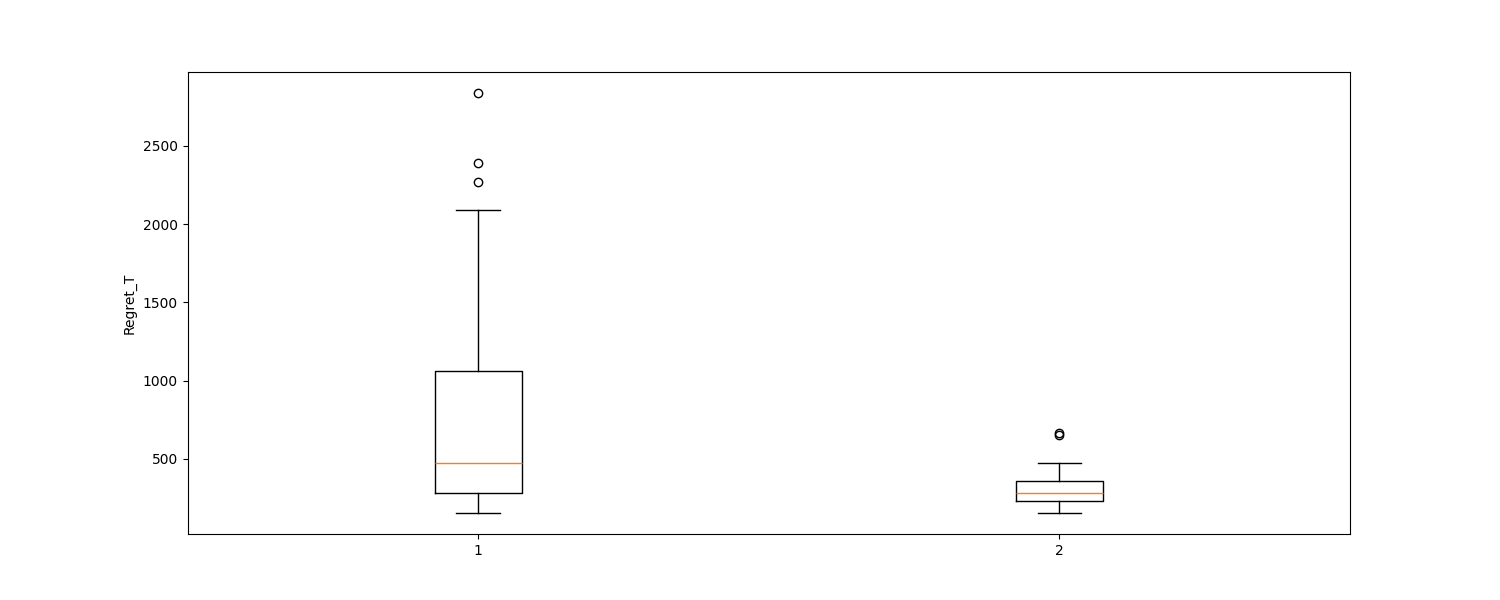
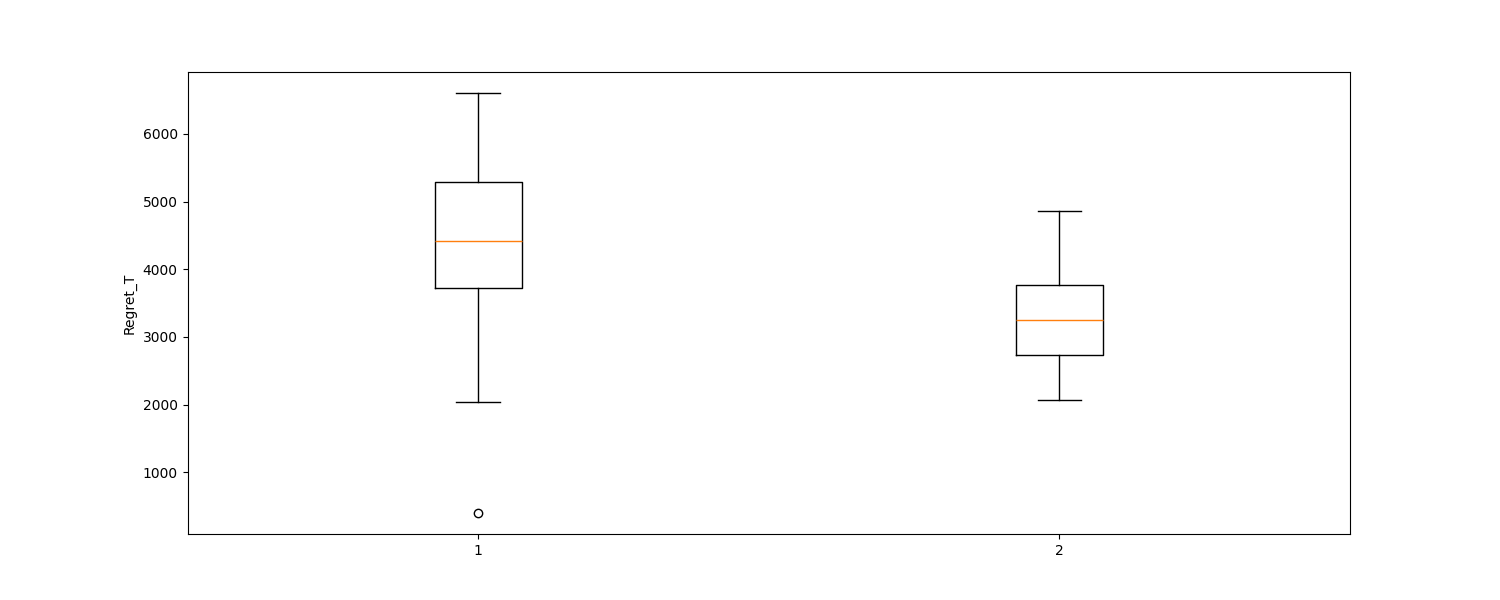
Commit these changes; Not sure what they are lmao

diff --git a/src/data_generating_mechanism/glm_posterior_sampling.py b/src/data_generating_mechanism/glm_posterior_sampling.py
@@ -23,10 +23,11 @@ class GLM_Posterior_Stochastic(Data_Generating_Mechanism):
                          num_runs = 50, 
                          init_exploration = init_exploration)
         
-    def initialize_parameters(self, hyperparameters):
-        self.alpha = hyperparameters['alpha']
-        self.r = np.zeros(shape = self.get_T())
-        self.m = np.zeros(shape = (self.get_T(), self.d))
+    def initialize_parameters(self, alpha):
+        #self.alpha = hyperparameters['alpha']
+        self.alpha = alpha
+        self.r = np.zeros(shape = self.get_T()+5)
+        self.m = np.zeros(shape = (self.get_T()+5, self.d))
         self.M = np.zeros(shape = (self.d, self.d))
         self.curr_time_stamp = 0
         self.theta_star = np.random.normal(loc = self.posterior_mean[0], scale = np.sqrt(self.posterior_covariance[0][0]), size = 10)
@@ -43,8 +44,6 @@ class GLM_Posterior_Stochastic(Data_Generating_Mechanism):
             r_1 = self.reward_gen(self.mu_arms[a_1])
             while (int(r_1) != 1):
                 a_1 = np.random.randint(0, 100, size = 1)
-                print(self.mu_arms[a_1])
-                print("**")
                 r_1 = self.reward_gen(self.mu_arms[a_1])
             
             a_0 = np.random.randint(0, 100, size = 1)
@@ -74,10 +73,13 @@ class GLM_Posterior_Stochastic(Data_Generating_Mechanism):
         self.r[self.curr_time_stamp] = reward
         self.m[self.curr_time_stamp, :] = x
         self.M = self.M + np.outer(x, x)
-        mle = self.fit_glm(self.m[:self.curr_time_stamp+1, :], 
-                           self.r[:self.curr_time_stamp+1]).coef_
-        if (t >= 60):
-            self.theta_hat = np.random.multivariate_normal(mean = mle,
+        if self.isLogistic == True:
+            mle = mle[0]
+        if (t >= 20):
+            mle = self.fit_glm(self.m[:self.curr_time_stamp+1, :], 
+                    self.r[:self.curr_time_stamp+1]).coef_
+            if self.isLogistic == True:
+                self.theta_hat = np.random.multivariate_normal(mean = mle,
                                                         cov = (self.alpha**2) * np.linalg.inv(self.jac(mle)))
         self.curr_time_stamp += 1
         return 

diff --git a/scripts/linear_gaussian_ucb_simulations.py b/scripts/linear_gaussian_ucb_simulations.py
@@ -118,21 +118,19 @@ glm_poisson_hyperparameters = [{'conf-width': 0.001},
 '''
 
 glm_logistic_hyperparameters = [
-                   {'alpha': 0.01},
-                   {'alpha': 0.025},
-                   {'alpha': 0.05},
-                   {'alpha': 0.1},
-                   {'alpha': 0.25},
-                   {'alpha': 0.5}
+                   {'alpha': 2.5},  
+                   {'alpha': 5},
+                   {'alpha': 8},
+                   {'alpha': 10},
+                   {'alpha': 15}
                    ]
 
 glm_poisson_hyperparameters = [
-                   {'alpha': 0.01},
-                   {'alpha': 0.025},
-                   {'alpha': 0.05},
-                   {'alpha': 0.1},
-                   {'alpha': 0.25},
-                   {'alpha': 0.5}
+                   {'alpha': 2.5},  
+                   {'alpha': 5},
+                   {'alpha': 8},
+                   {'alpha': 10},
+                   {'alpha': 15}
                    ]
 
 glm_posterior_stochastic_data_job_1 = GLM_Posterior_Stochastic(link=poisson_link_func, 
@@ -148,8 +146,8 @@ glm_posterior_stochastic_data_job_2 = GLM_Posterior_Stochastic(link=logistic_lin
 
 np.seterr(all="ignore")
 
-partial_info_ground = Partial_Info_Play_Ground(bandit_algorithms=[GLM_Gaussian_UCB(glm_posterior_stochastic_data_job_2, label = "Poisson UCB"), 
-                                                                  GLM_Gaussian_UCB(glm_posterior_stochastic_data_job_1, label = "Logistic UCB")],
+partial_info_ground = Partial_Info_Play_Ground(bandit_algorithms=[GLM_Gaussian_UCB(glm_posterior_stochastic_data_job_1, label = "Poisson UCB"),
+                                                                 GLM_Gaussian_UCB(glm_posterior_stochastic_data_job_2, label = "Logistic UCB")],
                                               hyperparameters=[glm_poisson_hyperparameters,
                                                                glm_logistic_hyperparameters],
                                               plot_label = "Linear-Gaussian-UCB",

diff --git a/src/game/partial_information_game.py b/src/game/partial_information_game.py
@@ -74,20 +74,19 @@ class Partial_Information_Game(Game):
     
     def find_minimum(self, starting_values, bounds):
         results = dict()
+        results = minimize_scalar(self.simulate_all_runs,  
+                           bounds=(0, 1),
+                           method='bounded')
+
         '''
-        results = minimize(self.simulate_all_runs, 
-                           method='Nelder-Mead', 
-                           x0 = starting_values, 
-                           bounds=bounds)
         results = minimize_scalar(self.simulate_all_runs, bounds = (0, 1))
         minimium_window = {'lambda': 0.25, 'delta': 0.025}
         pbounds = {'lambda': (0.0001, 5), 'delta': (0.0000001, 0.1)}
         minimium_window = {'delta': 0.025}
         pbounds = {'delta': (0.0000001, 0.1)}
         xi=0.0025
-        '''
         minimium_window = {'alpha': 0.025}
-        pbounds = {'alpha': (0.000001, 5)}
+        pbounds = {'alpha': (0.000001, 1)}
         bounds_transformer = SequentialDomainReductionTransformer(minimum_window=minimium_window)
         xi=0.025
         optimizer = BayesianOptimization(
@@ -100,6 +99,7 @@ class Partial_Information_Game(Game):
         )
         optimizer.maximize(init_points = 3, n_iter = 25)
         print(optimizer.max)
+        '''
 
     def grid_search(self, grid_values):
         print(np.shape(grid_values))

diff --git a/src/bandit_algorithms/glm_gaussian_ucb.py b/src/bandit_algorithms/glm_gaussian_ucb.py
@@ -27,7 +27,7 @@ class GLM_Gaussian_UCB(Bandit_Algorithm_PI):
         self.__current_sampling_distribution = distr
     
     def get_arm_to_pull(self, t):
-        if t < 60:
+        if t < 20:
             return int(np.random.uniform(0, 100, size = 1))
         else:
             arm_estimates_current_round = np.zeros(shape = self.data_generating_mechanism.get_K())
